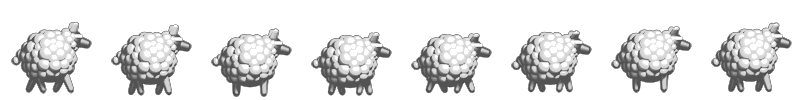
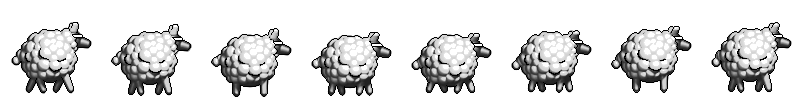
- Updated some graphics - Implemented part of the starting sequence (spaceship flying in)

diff --git a/prototype1/Hero.cs b/prototype1/Hero.cs
@@ -17,6 +17,11 @@ namespace prototype1
     {
         public Texture2D heroTex;
 
+        // Crashing space ship (START)
+        public Texture2D shipCrashTex;
+        private Sprite crashingShip;
+        private float crashingShipAnimSpeed = 7.5f;
+
         // Position & scale
         private Vector2 heroStartPosition = new Vector2(350, 385);
         private float heroScale = 1.5f;      
@@ -32,7 +37,7 @@ namespace prototype1
         private int amountOfFramesInWalkcycle = 8;
 
         // Jumping
-        private float defaultJumpHeight = 9f;
+        private float defaultJumpHeight = 10f;
         private float superJumpChance = 0.10f;
         private float failureChance = 0.05f;
         private float gravity = 0.35f;
@@ -41,7 +46,7 @@ namespace prototype1
 
         public Hero()
         {
-            
+
         }
 
         public void createHero()
@@ -59,6 +64,49 @@ namespace prototype1
         {
             updateJump();
             this.Color = ColorHandler.getCurrentColor();
+        }
+
+        private void startIntroSequence()
+        {
+            crashingShip = new Sprite();
+
+            crashingShip.Texture = shipCrashTex;
+
+            crashingShip.Width = 500;
+            crashingShip.Height = 250;
+
+            crashingShip.Color = Color.White;
+            crashingShip.Speed = 4f;
+            crashingShip.LayerDepth = 0.25f;
+            crashingShip.ScaleFactor = 0.5f;
+
+            crashingShip.Move(-crashingShip.Width, 15);
+
+            crashingShip.Active = true;
+        }
+
+        private void drawIntroSequence(SpriteBatch batch, GameTime time)
+        {
+            if (crashingShip == null)
+            {
+                startIntroSequence();
+                return;
+            }
+
+            crashingShip.Move(crashingShip.Position.X + crashingShip.Speed, crashingShip.Position.Y + RandomHandler.GetRandomFloat(-2.5f, 4f));
+
+            int animationX = (int)(time.TotalGameTime.TotalSeconds * crashingShipAnimSpeed) % 4;
+            Rectangle animCycle = new Rectangle(animationX * crashingShip.Width, 0, 
+                                            crashingShip.Width, crashingShip.Height);
+
+            batch.Draw(crashingShip.Texture, crashingShip.Position, animCycle, crashingShip.Color, 0f, new Vector2(0, 0), crashingShip.ScaleFactor, SpriteEffects.None, crashingShip.LayerDepth);
+
+            if (crashingShip.Position.X > Controller.TOTAL_WIDTH)
+            {
+                crashingShip.Active = false;
+                GameStateHandler.CurrentState = GameState.RUNNING;
+                return;
+            }
         }
 
         private int getCurrentFrame(GameTime gameTime)
@@ -88,39 +136,50 @@ namespace prototype1
         {
             if (this.Active)
             {
-                int yPos = 0;
-                switch (this.CurrentState)
+                if (GameStateHandler.CurrentState == GameState.STARTING)
                 {
-                    case HeroState.WALKING:
-                        yPos = 0;
-                        walkcycleSpeed = 75;
-                        break;
-
-                    case HeroState.JUMPING:
-                        yPos = this.Height + 1;
-                        walkcycleSpeed = 100;
-                        break;
-
-                    case HeroState.SLIDING:
-                        yPos = (this.Height + 1) * 2;
-                        walkcycleSpeed = 125;
-                        break;
-
-                    case HeroState.KICKING: 
-                        yPos = (this.Height + 1) * 4;
-                        walkcycleSpeed = 85;
-                        break;
-
-                    case HeroState.SUPERJUMPING:
-                        yPos = (this.Height + 1) * 6;
-                        walkcycleSpeed = 175;
-                        break;
+                    drawIntroSequence(batch, gameTime);
                 }
-              
+                else if (GameStateHandler.CurrentState == GameState.RUNNING)
+                {
+                    int yPos = 0;
+                    switch (this.CurrentState)
+                    {
+                        case HeroState.WALKING:
+                            yPos = 0;
+                            walkcycleSpeed = 75;
+                            break;
 
-                Rectangle animcycle = new Rectangle(getCurrentFrame(gameTime) * this.Width, yPos, this.Width, this.Height);
+                        case HeroState.JUMPING:
+                            yPos = this.Height + 1;
+                            walkcycleSpeed = 100;
+                            break;
 
-                batch.Draw(this.Texture, this.Position, animcycle, this.Color, 0f, new Vector2(0, 0), heroScale, SpriteEffects.None, 0f);
+                        case HeroState.SLIDING:
+                            yPos = (this.Height + 1) * 2;
+                            walkcycleSpeed = 125;
+                            break;
+
+                        case HeroState.KICKING:
+                            yPos = (this.Height + 1) * 4;
+                            walkcycleSpeed = 85;
+                            break;
+
+                        case HeroState.SUPERJUMPING:
+                            yPos = (this.Height + 1) * 6;
+                            walkcycleSpeed = 175;
+                            break;
+                    }
+
+                    Rectangle animcycle = new Rectangle(getCurrentFrame(gameTime) * this.Width, yPos, this.Width, this.Height);
+
+                    batch.Draw(this.Texture, this.Position, animcycle, this.Color, 0f, new Vector2(0, 0), heroScale, SpriteEffects.None, 0f);
+                }
+            }
+            else
+            {
+                this.Move(heroStartPosition);
+                this.Active = true;
             }
         }
 

diff --git a/prototype1/Controller.cs b/prototype1/Controller.cs
@@ -52,6 +52,7 @@ namespace prototype1
         {
             hero = new Hero();
             hero.heroTex = loadTexture("Rami_Anim_GS");
+            hero.shipCrashTex = loadTexture("ramiBotShipCrash");
 
             lateInit();
 
@@ -73,6 +74,9 @@ namespace prototype1
             osc = new OSCHandler();
 
             RandomHandler.init();
+            ColorHandler.loadColors();
+
+            GameStateHandler.CurrentState = GameState.STARTING; // Change to starting
         }
 
         private void loadEnemyTextures()
@@ -136,21 +140,24 @@ namespace prototype1
                 cameraHandler.updateCamera(gameTime, hero.Position);
             }
 
-            obstacleHandler.updateObstacles(gameTime);
             bg.updateBackground(gameTime);
             fg.updateForeground(gameTime);
-            hero.updateHero(gameTime);
-            enemy.updateEnemy(gameTime);
 
-            updateAllSprites();
-
-            if (RandomHandler.GetRandomInt(100) < 25)
+            if (GameStateHandler.CurrentState == GameState.RUNNING)
             {
-                createObstacle(gameTime);
+                obstacleHandler.updateObstacles(gameTime);
+                hero.updateHero(gameTime);
+                enemy.updateEnemy(gameTime);
+
+                updateAllSprites();
+
+                if (RandomHandler.GetRandomInt(100) < 25)
+                {
+                    createObstacle(gameTime);
+                }
+
+                checkCollision();
             }
-
-            checkCollision();
-
             base.Update(gameTime);
         }
 
@@ -186,7 +193,7 @@ namespace prototype1
             allSprites.AddRange(fg.sinusoidSprites);
             allSprites.AddRange(bg.bgMaskSprites);
             allSprites.AddRange(bg.bgSprites);
-            //allSprites.Add(hero);
+            allSprites.Add(hero);
 
             foreach (Sprite sprite in allSprites)
             {
@@ -235,26 +242,18 @@ namespace prototype1
                 cameraHandler = new CameraHandler();
                 
             }
+
             batch.Begin(SpriteSortMode.BackToFront, BlendState.AlphaBlend, null, null, null, null, cameraHandler.getTransformation(graphicsManager.GraphicsDevice));
 
-            //batch.Begin(SpriteSortMode.FrontToBack, BlendState.AlphaBlend);
             bg.drawBackground(batch, gameTime);
-            //batch.End();
-
-           // batch.Begin(SpriteSortMode.BackToFront, BlendState.AlphaBlend);
             fg.drawForeground(batch, gameTime);
-           // batch.End();
-
-           // batch.Begin();
-            obstacleHandler.drawObstacles(batch, gameTime);
-           // batch.End();
-
-          //  batch.Begin();
             hero.drawHero(batch, gameTime);
-          //  batch.End();
 
-          //  batch.Begin();
-            enemy.drawEnemy(batch, gameTime);
+            if (GameStateHandler.CurrentState == GameState.RUNNING)
+            {
+                obstacleHandler.drawObstacles(batch, gameTime);
+                enemy.drawEnemy(batch, gameTime);
+            }
             batch.End();
  
             base.Draw(gameTime);
@@ -263,6 +262,7 @@ namespace prototype1
         protected override void UnloadContent()
         {
             hero.heroTex.Dispose();
+            hero.shipCrashTex.Dispose();
 
             foreach (Texture2D fgTexture in fg.sinusoidTextures)
             {

diff --git a/prototype1/ColorHandler.cs b/prototype1/ColorHandler.cs
@@ -13,22 +13,24 @@ using Microsoft.Xna.Framework.Media;
 
 namespace prototype1
 {
-    class ColorHandler
+    public static class ColorHandler
     {
-        private List<Color> acceptedColors = new List<Color>();
+        private static List<Color> acceptedColors = new List<Color>();
 
-        public ColorHandler()
+        public static void loadColors()
         {
-            init();
-        }
-
-        private void init()
-        {
-        }
-
-        private void loadColors()
-        {
-            //Color color = w
+            acceptedColors.Add(new Color(189, 225, 0));
+            acceptedColors.Add(new Color(26, 144, 27));
+            acceptedColors.Add(new Color(29, 144, 128));
+            acceptedColors.Add(new Color(25, 8, 136));
+            acceptedColors.Add(new Color(126, 6, 129));
+            acceptedColors.Add(new Color(214, 22, 138));
+            acceptedColors.Add(new Color(111, 14, 71));
+            acceptedColors.Add(new Color(160, 16, 0));
+            acceptedColors.Add(new Color(250, 21, 0));
+            acceptedColors.Add(new Color(248, 129, 0));
+            acceptedColors.Add(new Color(238, 241, 117));
+            acceptedColors.Add(new Color(246, 245, 0));
         }
 
         public static Color getCurrentColor()
@@ -38,9 +40,7 @@ namespace prototype1
 
         public static Color getRandomColor()
         {
-            return new Color(RandomHandler.GetRandomFloat(1),
-                             RandomHandler.GetRandomFloat(1),
-                             RandomHandler.GetRandomFloat(1));
+            return acceptedColors.ElementAt(RandomHandler.GetRandomInt(acceptedColors.Count-1));
         }
     }
 }

diff --git a/prototype1/Obstacle.cs b/prototype1/Obstacle.cs
@@ -20,6 +20,7 @@ namespace prototype1
         private ObstacleType currentType;
         private Rectangle boundingBox;
         private bool animateOnDeath, readyToAnimate, stayAtFrame;
+        private float animationSpeed;
 
         public Obstacle()
         {
@@ -53,6 +54,12 @@ namespace prototype1
         {
             get { return stayAtFrame; }
             set { stayAtFrame = value; }
+        }
+
+        public float AnimationSpeed
+        {
+            get { return animationSpeed; }
+            set { animationSpeed = value; }
         }
     }
 }

diff --git a/prototype1/GameStateHandler.cs b/prototype1/GameStateHandler.cs
@@ -1,0 +1,19 @@
+using System;
+using System.Collections.Generic;
+using System.Linq;
+using System.Text;
+
+namespace prototype1
+{
+    public enum GameState { STARTING, RUNNING, ENDING };
+
+    public static class GameStateHandler
+    {
+        private static GameState _currentState;
+        public static GameState CurrentState
+        {
+            get { return _currentState; }
+            set { _currentState = value; }
+        }
+    }
+}

diff --git a/prototype1/ObstacleHandler.cs b/prototype1/ObstacleHandler.cs
@@ -164,6 +164,7 @@ namespace prototype1
                 newObs.Width = newWidth;
                 newObs.Height = newObs.Texture.Height;
                 newObs.Move(obstacleCreationPointX, obstacleCreationPointY);
+                newObs.AnimationSpeed = obstacleAnimSpeed;
                 newObs.Speed = 2.5f;
                 newObs.LayerDepth = 0.1f;
                 newObs.Active = true;
